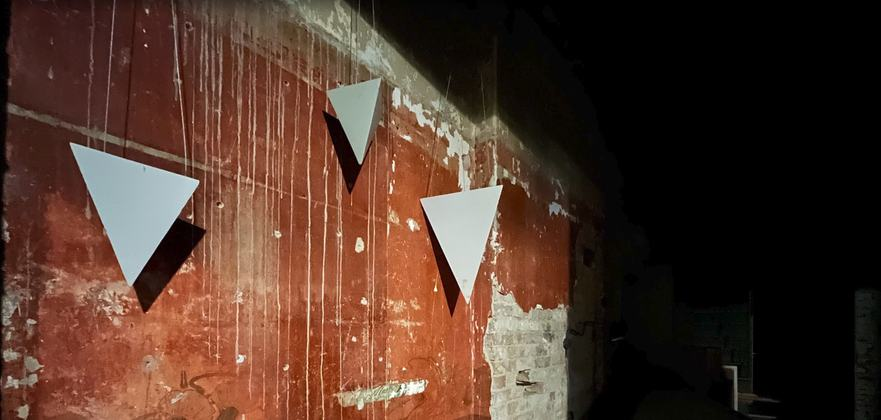
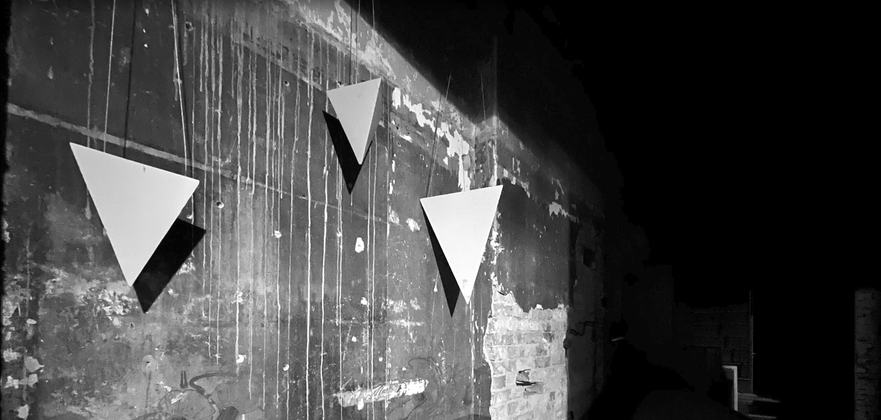
Fotostreifen: läuft langsam durch, Signal kommt initial sichtbar, Galerie-Leiste fest unten, Dreiecks-Foto S/W, Bunker

diff --git a/index.html b/index.html
@@ -62,11 +62,11 @@ ul.notes li::marker{color:var(--acc)}
 .strip a{flex:0 0 auto;scroll-snap-align:start;line-height:0;border:1px solid var(--s2)}.strip a:hover,.strip a:focus-visible{border-color:#e13226}
 .strip img{height:210px;width:auto;display:block}
 .photos .small{margin:8px 0 0}.photos .small:last-of-type{margin-bottom:32px}
-.lb{position:fixed;inset:0;z-index:50;background:rgba(0,0,0,.94);display:none;align-items:center;justify-content:center;flex-direction:column;padding:16px;line-height:1.4}
+.lb{position:fixed;inset:0;z-index:50;background:rgba(0,0,0,.94);display:none;align-items:center;justify-content:center;padding:16px 16px 170px;line-height:1.4}
 .lb.open{display:flex}
-.lb img{max-width:min(96vw,1500px);max-height:calc(100vh - 170px);max-height:calc(100dvh - 170px);object-fit:contain;border:1px solid var(--s2);cursor:pointer}
-.lb .cap{max-width:860px;margin:12px 0 0;font-size:13px;color:var(--s3);text-align:center;min-height:1.4em}
-.lb .lbnav{display:flex;gap:10px;align-items:center;margin-top:14px;font-size:13px;color:var(--s3)}
+.lb img{max-width:min(96vw,1500px);max-height:calc(100vh - 190px);max-height:calc(100dvh - 190px);object-fit:contain;border:1px solid var(--s2);cursor:pointer}
+.lb .cap{position:absolute;left:50%;transform:translateX(-50%);bottom:70px;width:min(92vw,860px);margin:0;font-size:13px;color:var(--s3);text-align:center}
+.lb .lbnav{position:absolute;left:0;right:0;bottom:18px;display:flex;gap:10px;align-items:center;justify-content:center;font-size:13px;color:var(--s3)}
 .lb button{background:#000;color:var(--ink);border:1px solid var(--s2);padding:6px 16px;font:inherit;cursor:pointer}
 .lb button:hover,.lb button:focus-visible{border-color:#e13226;color:#e13226;outline:none}
 .small{font-size:13px;color:var(--s3)}
@@ -110,7 +110,7 @@ in principle, not copied. Made for EBM, industrial and dark techno: <b>raw, pres
 <a href="media/photos/stairs.jpg" target="_blank" rel="noopener"><img src="media/photos/stairs-t.jpg" width="319" height="420" alt="A terrazzo staircase seen from above" loading="lazy"></a>
 <a href="media/photos/frozen-leaves.jpg" target="_blank" rel="noopener"><img src="media/photos/frozen-leaves-t.jpg" width="555" height="420" alt="Collapsed giant leaves in a winter garden, black and white" loading="lazy"></a>
 <a href="media/photos/steel-plates.jpg" target="_blank" rel="noopener"><img src="media/photos/steel-plates-t.jpg" width="304" height="420" alt="Dark welded steel plates meeting at angles" loading="lazy"></a>
-<a href="media/photos/dark-room.jpg" target="_blank" rel="noopener"><img src="media/photos/dark-room-t.jpg" width="559" height="420" alt="A dark concrete room filled with water, seen through a broken wall opening" loading="lazy"></a>
+<a href="media/photos/dark-room.jpg" target="_blank" rel="noopener"><img src="media/photos/dark-room-t.jpg" width="559" height="420" alt="A dark concrete room filled with water in an old bunker, seen through a broken wall opening" loading="lazy"></a>
 <a href="media/photos/spider.jpg" target="_blank" rel="noopener"><img src="media/photos/spider-t.jpg" width="559" height="420" alt="A spider in its web in front of a bright strip of light" loading="lazy"></a>
 <a href="media/photos/door.jpg" target="_blank" rel="noopener"><img src="media/photos/door-t.jpg" width="311" height="420" alt="A dark doorway with graffiti and stickers on the frame" loading="lazy"></a>
 <a href="media/photos/ivy-wall.jpg" target="_blank" rel="noopener"><img src="media/photos/ivy-wall-t.jpg" width="232" height="420" alt="A crumbling stone gatepost overgrown with ivy at night" loading="lazy"></a>
@@ -395,14 +395,24 @@ document.querySelectorAll('.lcdbox').forEach(box=>{
   els.forEach(e=>io.observe(e));
 })();
 
-// Fotostreifen: bei jedem Besuch eine andere Reihenfolge (muss vor der Galerie laufen, die die Reihenfolge übernimmt)
+// Fotostreifen: bei jedem Besuch eine andere Reihenfolge (muss vor der Galerie laufen, die die Reihenfolge übernimmt).
+// Das Studio steht immer vorn, „Signal kommt“ immer ungefähr in der Mitte des sichtbaren Streifens (Breite wird ausgerechnet).
 (function(){
   const st=document.querySelector('.strip');if(!st)return;
-  const PIN=['signal-kommt','studio'];                                      // diese zwei stehen immer vorn, damit sie sichtbar sind
   const all=[...st.children],name=e=>e.getAttribute('href').split('/').pop().replace('.jpg','');
-  const pinned=PIN.map(p=>all.find(e=>name(e)==p)).filter(Boolean),a=all.filter(e=>!pinned.includes(e));
+  const first=all.find(e=>name(e)=='studio'),sig=all.find(e=>name(e)=='signal-kommt');
+  const a=all.filter(e=>e!==first&&e!==sig);
   for(let i=a.length-1;i>0;i--){const j=Math.floor(Math.random()*(i+1));[a[i],a[j]]=[a[j],a[i]]}
-  pinned.concat(a).forEach(e=>st.appendChild(e));
+  const H=210,gap=8,wOf=e=>{const m=e.querySelector('img');return m.getAttribute('width')*H/m.getAttribute('height')+2};
+  const order=[];let x=0;
+  if(first){order.push(first);x+=wOf(first)+gap}
+  if(sig){const half=st.clientWidth/2,ws=wOf(sig);let best=0,bestErr=Infinity,xs=x;
+    for(let k=0;k<=a.length;k++){const err=Math.abs(xs+ws/2-half);if(err<bestErr){bestErr=err;best=k}if(k<a.length)xs+=wOf(a[k])+gap}
+    for(let k=0;k<best;k++)order.push(a.shift());                         // so viele Bilder vor „Signal kommt“, dass es der Streifenmitte am nächsten liegt
+    order.push(sig)}
+  st.style.scrollSnapType='none';
+  order.concat(a).forEach(e=>st.appendChild(e));
+  st.scrollLeft=0;requestAnimationFrame(()=>{st.scrollLeft=0;if(!st.dataset.auto)st.style.scrollSnapType=''});
 })();
 // Fotogalerie: Klick vergrößert, Pfeile/Wischen blättern, Esc schließt
 (function(){
@@ -414,6 +424,7 @@ document.querySelectorAll('.lcdbox').forEach(box=>{
   let i=0,last=null;
   const show=k=>{i=(k+n)%n;const a=links[i],t=a.querySelector('img');img.src=a.href;img.alt=t.alt;cap.textContent=t.alt;cnt.textContent=String(i+1).padStart(2,'0')+' / '+String(n).padStart(2,'0');[i+1,i-1].forEach(j=>{new Image().src=links[(j+n)%n].href})};
   const open=k=>{last=document.activeElement;show(k);lb.classList.add('open');document.body.style.overflow='hidden';lb.querySelector('[data-a=close]').focus()};
+  window._photoOpen=open;
   const close=()=>{lb.classList.remove('open');document.body.style.overflow='';if(last&&last.focus)last.focus()};
   links.forEach((a,k)=>a.addEventListener('click',e=>{if(e.metaKey||e.ctrlKey||e.shiftKey)return;e.preventDefault();open(k)}));
   lb.addEventListener('click',e=>{const b=e.target.closest('button');if(b){const x=b.dataset.a;if(x=='prev')show(i-1);else if(x=='next')show(i+1);else close()}else if(e.target===img)show(i+1);else if(e.target===lb)close()});
@@ -422,6 +433,27 @@ document.querySelectorAll('.lcdbox').forEach(box=>{
     else if(e.key=='Tab'){const bs=[...lb.querySelectorAll('button')],f=bs.indexOf(document.activeElement);e.preventDefault();bs[(f+(e.shiftKey?-1:1)+bs.length)%bs.length].focus()}});
   let x0=null;lb.addEventListener('touchstart',e=>{x0=e.touches[0].clientX},{passive:true});
   lb.addEventListener('touchend',e=>{if(x0==null)return;const dx=e.changedTouches[0].clientX-x0;x0=null;if(Math.abs(dx)>40)show(i+(dx<0?1:-1))});
+})();
+
+// Fotostreifen läuft ganz langsam von links nach rechts durch (nahtlose Schleife); pausiert bei Berühren, Hover und geöffneter Galerie
+(function(){
+  const st=document.querySelector('.strip');if(!st||matchMedia('(prefers-reduced-motion: reduce)').matches)return;
+  const orig=[...st.children];
+  orig.forEach((a,k)=>{const c=a.cloneNode(true);c.setAttribute('data-clone','');c.setAttribute('aria-hidden','true');c.tabIndex=-1;
+    c.addEventListener('click',e=>{if(e.metaKey||e.ctrlKey||e.shiftKey)return;e.preventDefault();window._photoOpen&&window._photoOpen(k)});st.appendChild(c)});
+  st.dataset.auto='1';st.style.scrollSnapType='none';
+  const loopW=()=>st.children[orig.length].offsetLeft-st.children[0].offsetLeft;
+  let pos=0,last=performance.now(),hold=0,hover=false,vis=true;const V=26;      // Pixel pro Sekunde
+  const pause=ms=>{hold=performance.now()+ms};
+  ['pointerdown','touchstart','wheel','focusin'].forEach(ev=>st.addEventListener(ev,()=>pause(4000),{passive:true}));
+  st.addEventListener('mouseenter',()=>hover=true);st.addEventListener('mouseleave',()=>{hover=false;pause(600)});
+  st.addEventListener('scroll',()=>{if(Math.abs(st.scrollLeft-Math.round(pos))>3){pos=st.scrollLeft;pause(4000)}},{passive:true});
+  if('IntersectionObserver' in window)new IntersectionObserver(es=>es.forEach(e=>vis=e.isIntersecting)).observe(st);
+  const tick=t=>{const dt=Math.min(t-last,100)/1000;last=t;
+    if(vis&&!hover&&t>=hold&&!document.hidden&&!document.querySelector('.lb.open')){
+      const L=loopW();pos+=V*dt;if(pos>=L)pos-=L;st.scrollLeft=pos}
+    requestAnimationFrame(tick)};
+  requestAnimationFrame(tick);
 })();
 </script>
 </body>
